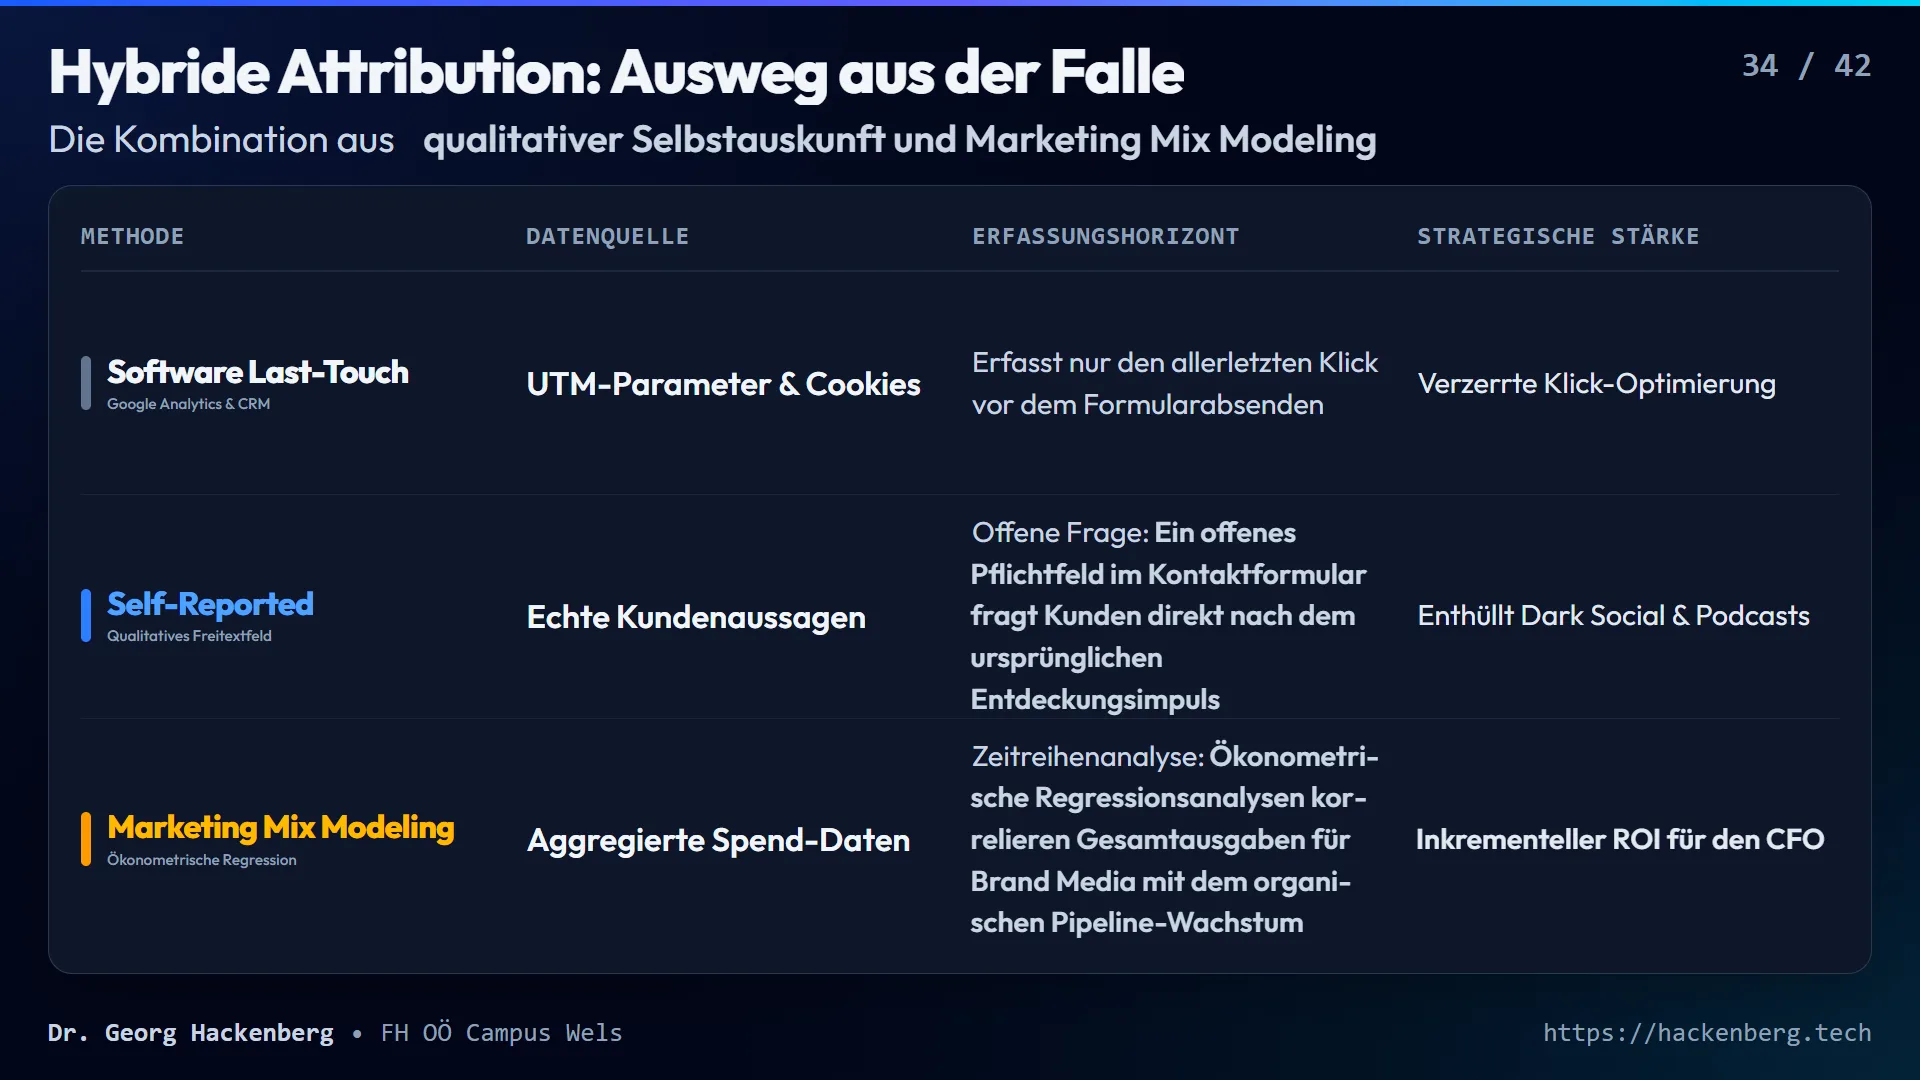
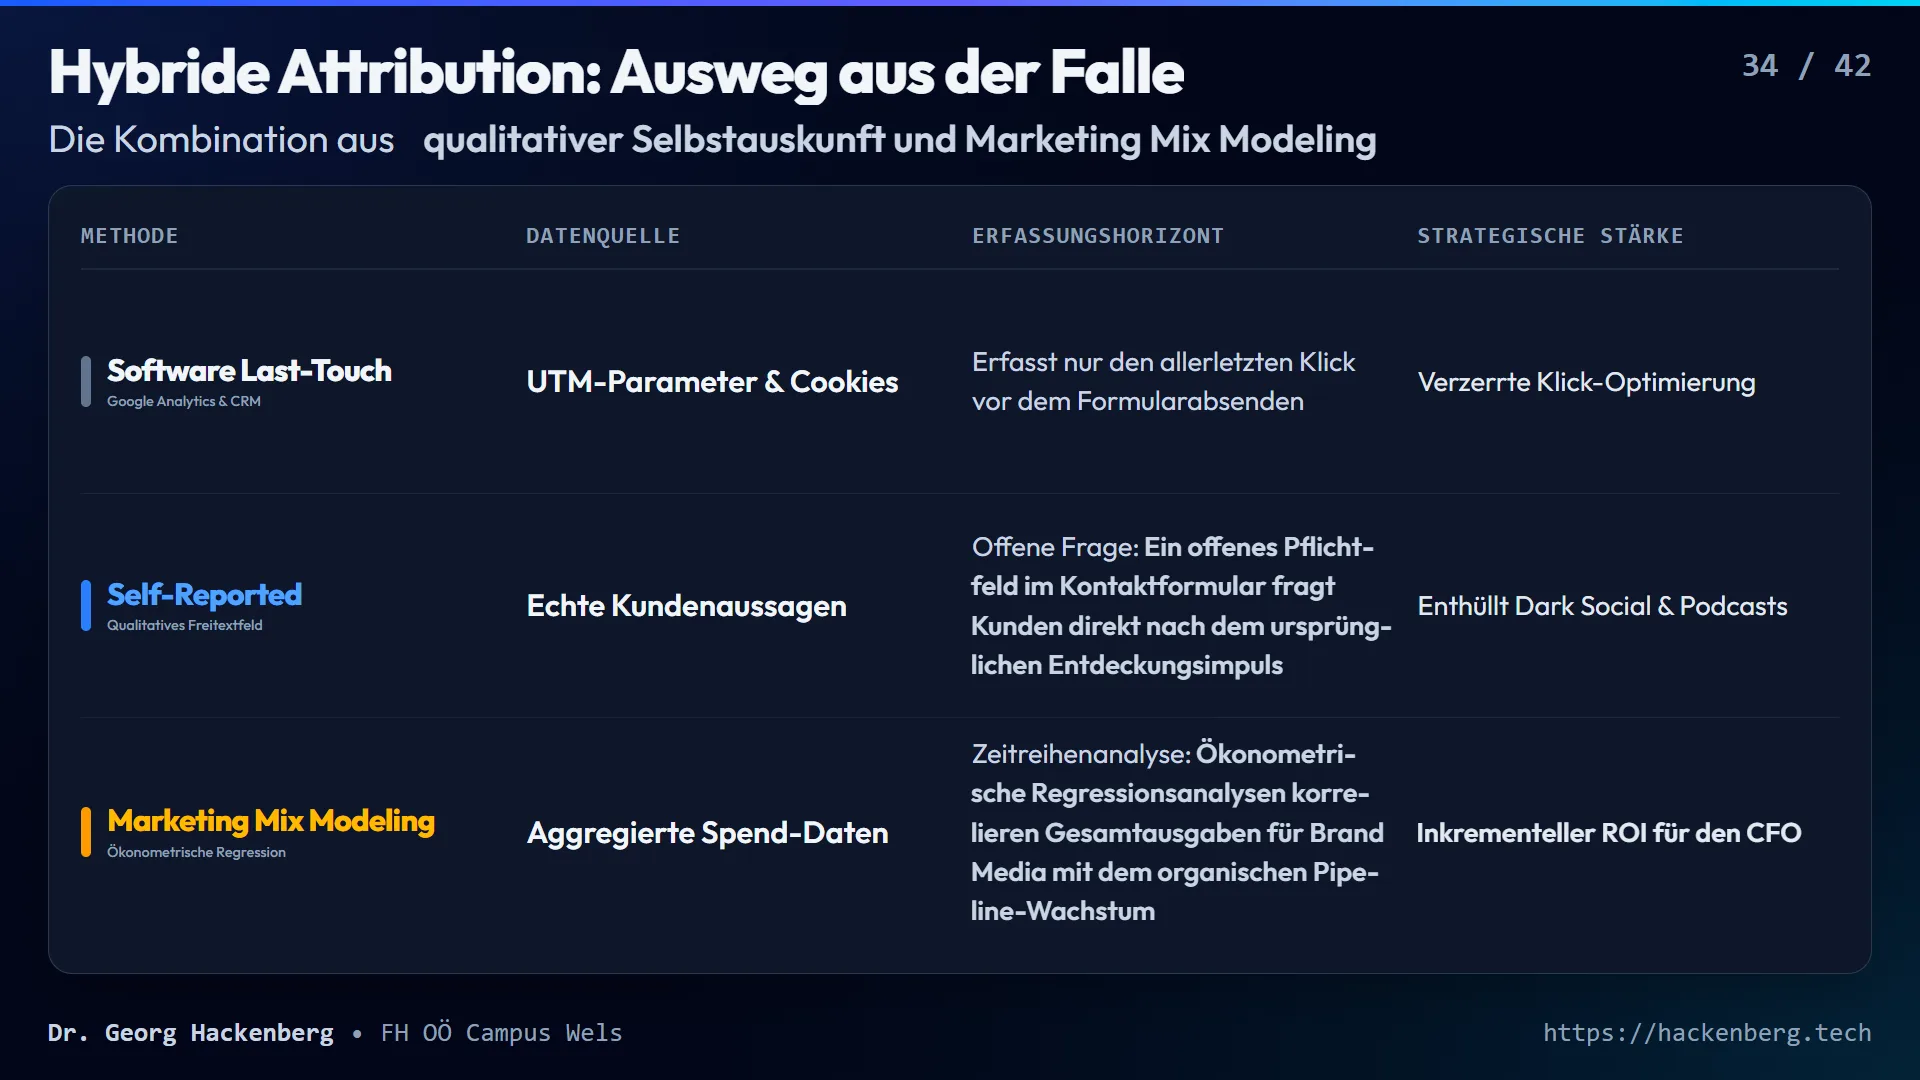
chore: update citation URLs, bot protection handling and presentation visual cache

diff --git a/src/scripts/lint-citations.ts b/src/scripts/lint-citations.ts
@@ -226,7 +226,7 @@ async function fetchWebPage(url: string): Promise<RemoteCitation> {
     if (res.status === 403) {
       const serverHeader = res.headers.get('server') || '';
       const cfRay = res.headers.get('cf-ray');
-      if (cfRay || serverHeader.toLowerCase().includes('cloudflare') || url.includes('iso.org') || url.includes('gartner.com') || url.includes('wordstream.com') || url.includes('sciencedirect.com') || url.includes('plattform-i40.de')) {
+      if (cfRay || serverHeader.toLowerCase().includes('cloudflare') || url.includes('iso.org') || url.includes('gartner.com') || url.includes('wordstream.com') || url.includes('sciencedirect.com') || url.includes('plattform-i40.de') || url.includes('openai.com')) {
         return {
           status: 200,
           remoteSourceType: 'Cloudflare/WAF Bot Shield (Host Active)',
